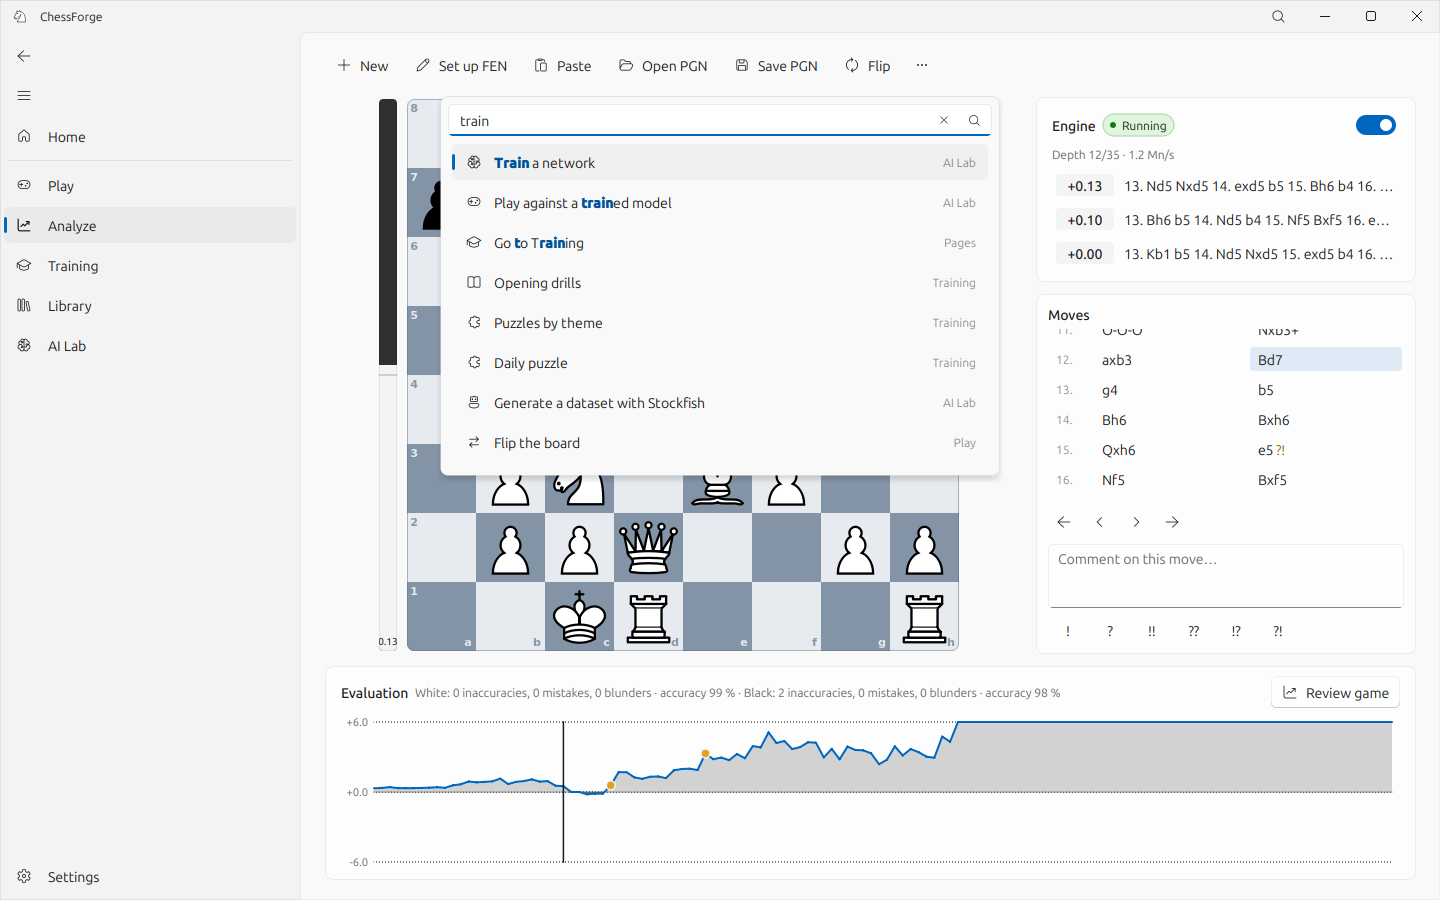
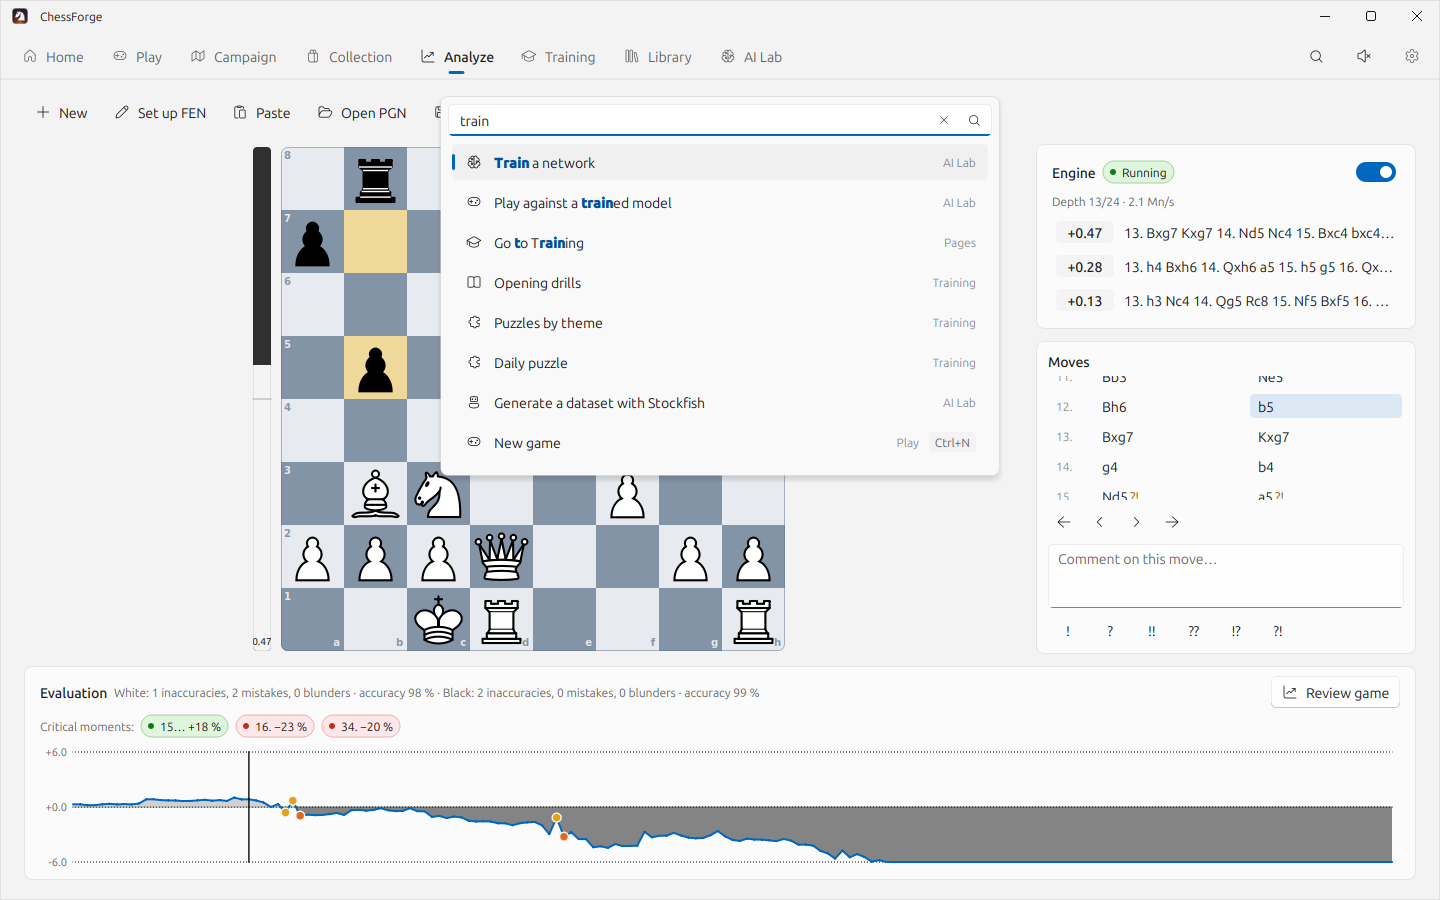
ChessForge 0.3: piece sets, boards and arenas with their own shapes, sound, top navigation, smooth turns for two players, one-button AI setup

diff --git a/README.md b/README.md
@@ -1,9 +1,10 @@
 # ChessForge
 
 **A 3D chess game and chess workstation for Windows and Linux.**
-- Play on a sculpted ivory-and-obsidian set in a torchlit royal hall, or follow a twelve-mission campaign.
-- Collect piece, board and arena looks with coins earned in play.
-- Analyse with Stockfish, train with puzzles and drills, keep a game library, and train your own neural network.
+- Play on five sculpted piece sets with their own shapes, six boards and five arenas, with sound and music, or follow a twelve-mission campaign.
+- Play a friend on one computer: the camera glides around the table to whoever is to move.
+- Collect piece sets, boards and arenas with coins earned in play.
+- Analyse with Stockfish, train with puzzles and drills, keep a game library, and train your own neural network: AI training sets itself up from one button.
 
 Built with [FluentQt](https://github.com/pntrungbk15/fluentqt-showcase) on PyQt5.
 
@@ -15,89 +16,108 @@ Built with [FluentQt](https://github.com/pntrungbk15/fluentqt-showcase) on PyQt5
 > **About this repository.** It presents ChessForge through screenshots and a written overview. It contains no source
 > code: the application's source is private at this stage.
 
-![A campaign mission on the 3D board against the built-in sparring partner, dark theme](assets/chess-mission-3d.png)
+![A campaign mission on the 3D board against the built-in sparring partner, dark theme, with navigation across the top](assets/chess-mission-3d.png)
 
 | At a glance | |
 |---|---|
 | **What** | An independent desktop application: a 3D chess game with a campaign and a cosmetic collection, plus analysis, training, a game database and a neural-network lab, all running locally. |
-| **3D** | A custom OpenGL 2.1 renderer and an original sculpted chess set (signed distance functions meshed and baked by a build script); physically based, fully procedural materials with no textures; planar and contact shadows; four halls; a camera you can orbit and zoom while picking stays exact. |
+| **3D** | A custom OpenGL 2.1 renderer. Five original piece families sculpted as signed distance functions and baked by a build script; six board styles and five arenas built as geometry at run time; physically based, fully procedural materials with no textures; planar and contact shadows; a camera you can orbit and zoom while picking stays exact. |
+| **Sound** | Original effects and music, synthesised by a script (no samples): one sound per event, volumes, quick mute, music that pauses while minimized; the game runs silent without a sound device. |
 | **Progression** | Twelve missions judged move by move; a coin ledger whose rows are keyed by the event they pay for, so nothing is paid twice; purchases in one transaction. Coins buy looks only, and there is no way to buy coins in this version. |
+| **AI setup** | The app explains in plain words what the computer can do and installs a private PyTorch runtime (processor or NVIDIA CUDA) on request, as a cancellable job that never touches the system and never replaces a working runtime. Intel and AMD graphics are named but not promised as accelerators. |
 | **Engine integration** | Stockfish over UCI in its own processes; live multi-line analysis; background game review with an evaluation graph, critical moments and accuracy. |
-| **AI Lab** | Datasets from your games or from Stockfish, a policy/value network trained with PyTorch in a separate process, MCTS self-play, checkpoint evaluation, and play against your own models. |
-| **Data** | A local SQLite library with background PGN import, search, filters, tags, collections and duplicate detection. |
-| **Packaging** | A standalone Windows build compiled with Nuitka and verified by launching it, packed into a per-user Inno Setup installer; Stockfish is detected or downloaded, never bundled. |
+| **Packaging** | A standalone Windows build compiled with Nuitka and verified by launching it (3D board, window, sound, engine, datasets), packed into a per-user Inno Setup installer; Stockfish and PyTorch are downloaded on request, never bundled. |
 
 ## Features
 
 | Area | What it does |
 |---|---|
-| **3D board** | On by default with hardware OpenGL: glazed ivory with champagne gold against polished obsidian with antique gold, a veined marble board with a brass inlay on a dais, in a hall of pillars, arches, moonlit windows and torches. Drag outside the squares to turn it, wheel to zoom, C to reset; the camera never moves by itself. A detail setting drops the hall on older graphics. |
+| **3D board** | On by default with hardware OpenGL. Piece sets that differ in shape (Staunton, royal, gothic, ancient, modern), boards that differ in frame and material (bevelled marble, a stepped rim, raised stone tiles, sandstone with dentils and pyramids, a slim metal frame on volcanic glass, rounded walnut) and arenas that differ in architecture, sky and floor (a royal hall, a sunrise terrace, a moonlit grove, a lava-lit forge, a domed observatory). Drag outside the squares to turn the camera, wheel to zoom, C to reset; the camera never moves by itself. Detail and smooth-edges settings for older graphics. |
+| **Two players** | After each move the camera travels 180° around the table to the other player (smooth, quick or instant; at once with Reduce motion); the board never moves and input waits for the camera. An optional screen asks the next player to press Continue. |
+| **Sound** | Wooden moves, heavier captures, castling, bells for check, promotion and checkmate, phrases for wins, losses and draws, a fanfare for a completed mission, glints for rewards, two calm music pieces. Master, effects and music volumes, mute with Ctrl+M. |
 | **Campaign** | Three chapters against named opponents, from a built-in sparring engine to Stockfish level 11; goals are win, do not lose, or hold out for a number of moves; rewards are paid once. |
-| **Collection** | Five piece finishes, five boards and four arenas, previewed live on the 3D board and listed in a FluentQt Pro `CatalogView`; coins come from missions, wins and draws against the computer, the daily puzzle and achievements. |
+| **Collection** | Five piece sets, six boards and five arenas in sections, each tile a picture rendered by the 3D board, the selected look previewed live; listed in a FluentQt Pro `CatalogView`. |
 | **Play** | Against Stockfish (levels 0–20), the built-in sparring partner (no download), a friend, a model trained in the AI Lab, or engine against engine; clocks with increment, any FEN start, draws, takebacks, rematch. |
 | **Analysis** | Live multi-line analysis with the best move drawn as an arrow; **Review game** grades every move in the background and marks the critical moments. |
 | **Training** | 2,475 puzzles by theme and rating band, SM-2 spaced repetition of missed puzzles, 3,815 named opening lines to drill, endgame drills against Stockfish. |
-| **AI Lab** | Stockfish datasets generated by several engine processes in parallel, skipping repeated positions and committed in chunks, so a stopped or crashed run resumes where it left off. Every job sits in a persistent queue with progress, pause, resume, cancel and retry. |
-| **Board** | A 2D board with seven themes where 3D is unavailable and in training; drag, click or keyboard play; right-drag arrows. |
-| **Desktop** | A splash screen with the real loading steps and Retry on failure; a system tray icon with Open/Hide, New game, Continue the campaign and Quit. |
-| **Commands** | Ctrl+K opens a command palette for every frequent action. |
+| **AI Lab** | "What this computer can do" and **Set up AI training** (processor or NVIDIA GPU, recommended for this computer). Stockfish datasets generated by several engine processes in parallel and committed in chunks; training, self-play and evaluation in a separate process; every job in a persistent queue with progress, pause, resume, cancel and retry. |
+| **Desktop** | Opens maximized, then as you left it; navigation across the top (FluentQt Pro `TopNavigationWindow`) with search, mute and Settings at its right end; a splash screen with the real loading steps; a system tray icon. |
 | **Accessibility** | Full keyboard play, reduced motion, a high-contrast board, text scaling, light/dark/system theme. |
 
 ## The 3D board
 
-![The sculpted set on a marble board with a brass inlay, on a dais in a torchlit hall](assets/chess-3d-arena.jpg)
+![The Staunton set on a marble board with a brass inlay, on a dais in a torchlit hall](assets/chess-3d-arena.jpg)
+
+**Five piece sets with their own shapes:** Staunton, royal, gothic, ancient and modern.
+
+![The five piece sets in line-ups](assets/chess-3d-sets.jpg)
+
+![The knight and the king of each set, close up](assets/chess-3d-family-closeups.jpg)
+
+**Six boards with their own frames and materials:**
+
+![Royal Marble, Midnight Marble, Verdant Stone, Desert Sandstone, Obsidian and Gold, Walnut and Maple](assets/chess-3d-boards.jpg)
+
+**Five arenas with their own architecture, sky and floor:**
+
+![Twilight Keep, Dawn Terrace, Moonlit Grove, Ember Forge and Celestial Observatory](assets/chess-3d-arenas.jpg)
+
+**Two players on one computer:** five frames of the camera turning from White's side to Black's.
+
+![Five frames of the camera's arc around the table](assets/chess-3d-turn.jpg)
 
 | | |
 |---|---|
 | ![The board at the default camera, mid-opening](assets/chess-3d-board.jpg) | ![White's pieces in front, Black's behind](assets/chess-3d-pieces-white.jpg) |
-| The default view in play: a 40° camera with the whole board, the frame and the hall beyond it. | All six piece types from White's side: the knight in profile, the bishop's cut, the queen's crown of pearls, the king's cross. |
-| ![The same pieces from Black's side](assets/chess-3d-pieces-black.jpg) | ![A selected knight with its legal moves and the last move highlighted](assets/chess-3d-highlights.jpg) |
-| The same line-up from Black's side: obsidian with antique gold. | A selected knight's legal moves, the last move and the selection stay legible on light and dark squares. |
-| ![The board after the player turned the camera](assets/chess-3d-rotated.jpg) | ![The Collection page previewing an arena on the live 3D board](assets/chess-collection.png) |
-| The camera after the player turned it: it stays wherever it is put. | The Collection previews a look on the live 3D board before it is bought. |
+| The default view in play. | All six Staunton pieces from White's side. |
+| ![A selected knight with its legal moves and the last move highlighted](assets/chess-3d-highlights.jpg) | ![The board after the player turned the camera](assets/chess-3d-rotated.jpg) |
+| Legal moves, the last move and the selection on light and dark squares. | The camera stays wherever the player puts it. |
 
-![Close-ups of the knight, king, queen, bishop and rook in ivory and obsidian](assets/chess-3d-closeups.jpg)
-
-![The four arenas: Twilight Keep, Dawn Terrace, Moonlit Grove and Ember Forge](assets/chess-3d-arenas.jpg)
-
-![The five piece finishes: Ivory and Obsidian, Gilded Court, Jade and Onyx, Moonstone and Ember, Frost and Shadow](assets/chess-3d-finishes.jpg)
+![Close-ups of the Staunton knight, king, queen, bishop and rook](assets/chess-3d-closeups.jpg)
 
 Rendered by the application's own renderer at the shader quality it uses on a GPU.
 
 ## Screens
 
+![The installed app on Windows 11, maximized: navigation across the top and the 3D board on Intel Iris Xe](assets/chess-installed-windows.jpg)
+
 | | |
 |---|---|
+| ![AI setup](assets/chess-lab-setup.png) | ![Pass the device](assets/chess-handover.png) |
+| **AI setup:** what this computer can do, and the runtimes it can use (here Intel Iris Xe graphics, so the processor runtime is recommended and the NVIDIA one explains why it is not offered). | **Two players:** the board is covered until the next player presses Continue, then the camera turns to their side. |
+| ![Collection: boards](assets/chess-collection-boards.png) | ![Sound settings](assets/chess-settings-sound.png) |
+| **Collection:** tiles rendered by the 3D board, the selected board previewed live; buying coins is not offered. | **Sound:** mute, master, effects and music volumes. |
 | ![Home](assets/chess-home.png) | ![Campaign](assets/chess-campaign.png) |
 | **Home:** the next campaign mission first, then quick actions, recent games and training progress. | **Campaign:** chapters, the mission briefing and achievements. |
-| ![Collection](assets/chess-collection.png) | ![Play](assets/chess-play.png) |
-| **Collection:** a look previewed on the live 3D board, the looks in a catalog grid, coin history; buying coins is not offered. | **Play:** clocks, move list, captured material and an evaluation bar (2D board). |
 | ![Analysis](assets/chess-analysis.png) | ![Training](assets/chess-training.png) |
 | **Analysis:** live Stockfish lines and a reviewed game. | **Training:** puzzles by theme and rating with hints and progress. |
 | ![Library](assets/chess-library.png) | ![AI Lab](assets/chess-lab.png) |
 | **Library:** filters, search, tags, collections and a preview (demo players are fictional). | **AI Lab:** a training run with live losses, accuracy and throughput. |
-| ![Datasets](assets/chess-lab-datasets.png) | ![Command palette](assets/chess-commands.png) |
-| **Datasets:** a Stockfish generation running in the job queue. | **Ctrl+K:** the command palette. |
+| ![Play](assets/chess-play.png) | ![Command palette](assets/chess-commands.png) |
+| **Play:** clocks, move list, captured material and an evaluation bar (2D board). | **Ctrl+K:** the command palette. |
 
-Game-page screenshots use demo progress.
+Game-page screenshots use demo progress. The installed app, AI setup, pass-the-device and Sound screens were captured
+on Windows 11 with real graphics and sound; the others are drawn offscreen.
 
 ## Architecture
 
 ```
-app           main window, lazily built pages, cross-page actions
+app           main window: top navigation, lazily built pages, window state
+audio         sound effects and music (loaded after the window shows)
 game/         game model (PGN tree + cursor), clocks, play controller
 engine/       UCI protocol, one process per engine, detection and probing, a built-in sparring engine
 progression/  campaign missions and their judge, coin ledger, collection, achievements
 analysis/     background game review
-rendering/    board view and camera, 2D renderer, OpenGL 3D renderer, the sculpted set, board and halls, finishes
+rendering/    board view and camera (including the turn between players), 2D renderer, OpenGL 3D renderer,
+              piece families, board styles, arenas, finishes
 storage/      SQLite schema and repositories (games, collections, runs, training)
 training/     puzzle, opening and endgame catalogues, drills, rating, SM-2
-ai/           training process and controller, network, MCTS, datasets
+ai/           training process and controller, network, MCTS, datasets, AI runtimes, hardware detection
 ui/           pages and widgets (FluentQt)
 ```
 
-The GUI never waits on an engine or on training: Stockfish runs in its own processes and training in a separate Python
-process, both reporting progress through throttled updates.
+The GUI never waits on an engine or on training: Stockfish runs in its own processes and training in a separate
+Python process, both reporting progress through throttled updates.
 
 ## Performance
 
@@ -108,18 +128,21 @@ Measured with the project's benchmark scripts (medians):
 | Import 10,000 PGN games | 295 ms, worst GUI stall 20 ms |
 | Library page at 100,000 games | 1.1 ms (text search 23 ms) |
 | Stockfish dataset, depth 8, 4 engine processes through the job queue | 1,119 positions/s, worst GUI stall 17 ms |
-| 3D drag on Intel Iris Xe | 16.7 ms per frame (vsync, the display rate) |
+| 3D camera turning on Intel Iris Xe, 1320 × 880 window, every look | 16.7 ms per frame (vsync, the display rate) |
+| The same, maximized (1500 × 796 board) | 19–21 ms with smooth edges, 16.7 ms with smooth edges off |
+| AI runtime setup on Windows 11 (processor), then training a small network | 3–4 minutes once; 100 training steps in under 40 s |
 
 ## Availability
 
 There is no public download at this stage. The Windows build (a standalone Nuitka folder packed into a per-user Inno
-Setup installer, `ChessForge-<version>-Setup.exe`) is produced and tested privately; it needs Windows 10 or 11 (64-bit)
-and, for the 3D board, hardware OpenGL 2.1 such as Intel Iris Xe or any recent GPU.
+Setup installer, `ChessForge-<version>-Setup.exe`, 56 MB for version 0.3) is produced and tested privately: installed,
+run, set up for AI training and uninstalled. It needs Windows 10 or 11 (64-bit) and, for the 3D board, hardware OpenGL
+2.1 such as Intel Iris Xe or any recent GPU.
 
 ## Not in this version
 
-Online multiplayer (local two-player only), buying coins (disabled and labelled as a future feature), and playtested
-difficulty for the campaign.
+Online multiplayer (local two-player only), buying coins (disabled and labelled as a future feature), playtested
+difficulty for the campaign, and a test of GPU training on NVIDIA hardware (the processor runtime is tested end to end).
 
 ## Author
 
